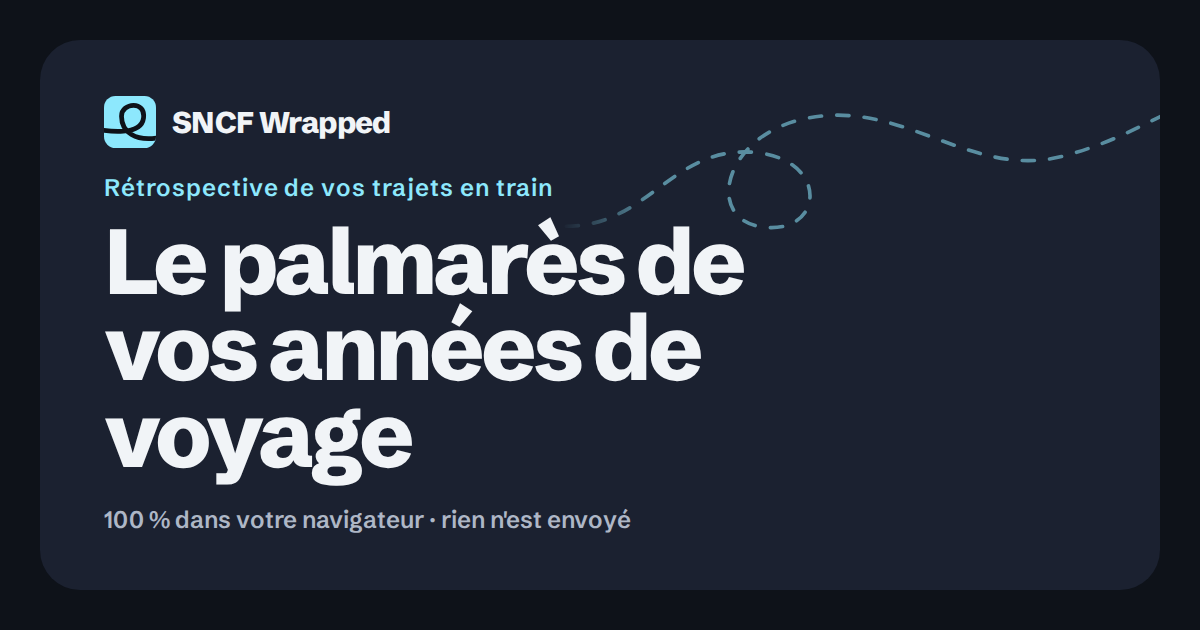
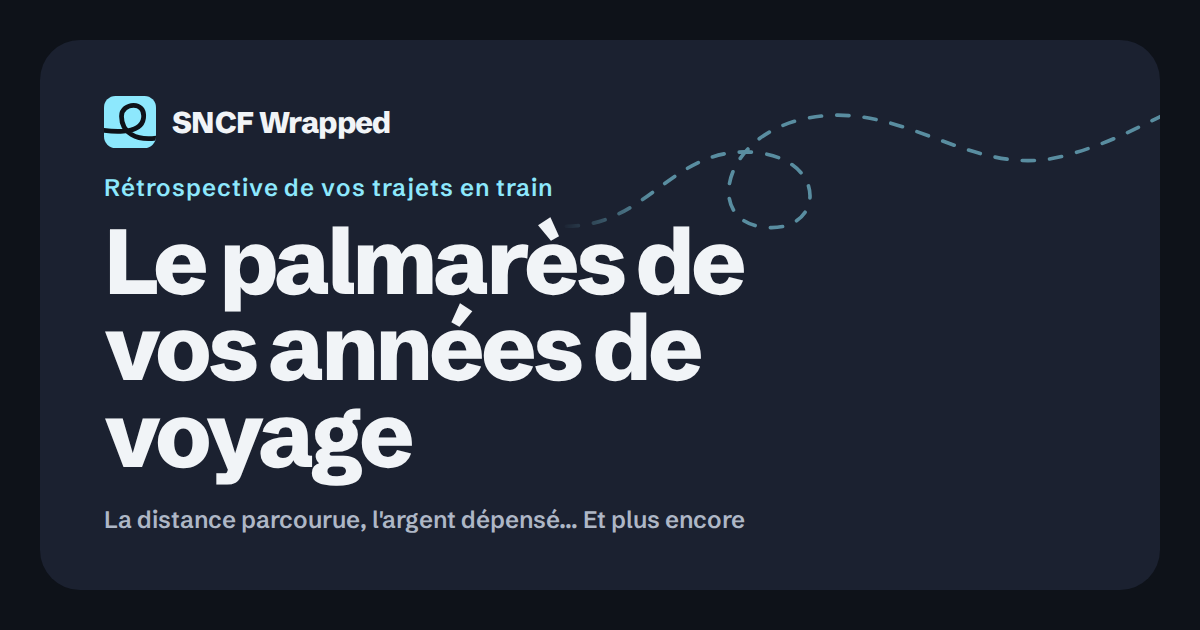
Replace the share image's footer line with a teaser of the recap
Claude-Session: https://claude.ai/code/session_01GGXEPZUAwwSgTiBpp5uQqe

Changed region(s): [[0.0617, 0.8143, 0.6167, 0.8444]]

diff --git a/scripts/og-image.html b/scripts/og-image.html
@@ -46,7 +46,7 @@
     </div>
     <div class="kicker">Rétrospective de vos trajets en train</div>
     <h1>Le palmarès de vos années de voyage</h1>
-    <div class="foot">100 % dans votre navigateur · rien n'est envoyé</div>
+    <div class="foot">La distance parcourue, l'argent dépensé… Et plus encore</div>
   </div>
 </body>
 </html>
